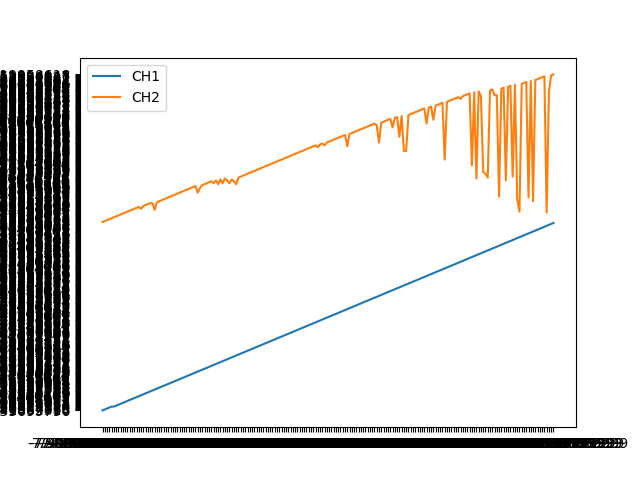
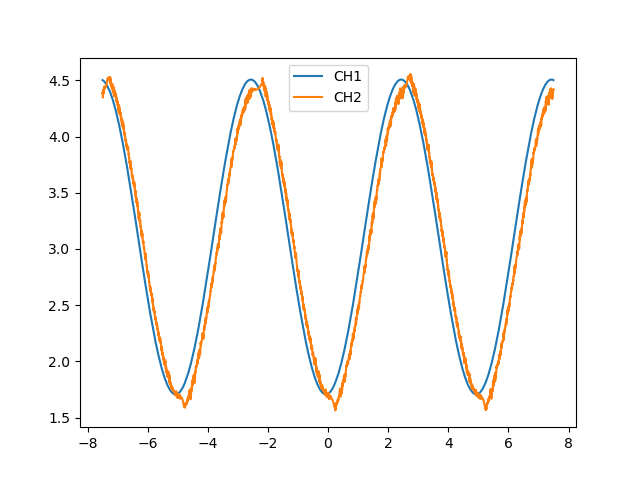
Fixed plot

diff --git a/generalPlot.py b/generalPlot.py
@@ -1,13 +1,12 @@
 import matplotlib.pyplot as plt
 import csv
-import os
-print(os.getcwd())
+import numpy as np
 
 x = []
 channel_one = []
 channel_two = []
 
-filename = 'sineWave_02hz'
+filename = 'instrumenteringsforsterker_gain'
 filepath = 'motorlabData/' + filename + '.csv'
 newfilePath = 'plots/' + filename + '.png'
 
@@ -15,15 +14,12 @@ with open(filepath, 'r') as csvfile:
     plots = csv.reader(csvfile, delimiter=',')
 
     for row in plots:
-        x.append(row[0])
-        channel_one.append(row[1])
-        channel_two.append(row[2])
+        x.append(float(row[0]))
+        channel_one.append(float(row[1]))
+        channel_two.append(float(row[2]))
 
 print(len(x))
 
-x = x[:200]
-channel_one =channel_one[:200]
-channel_two =channel_two[:200]
 
 plt.plot(x, channel_one, label='CH1')
 plt.plot(x, channel_two, label='CH2')
